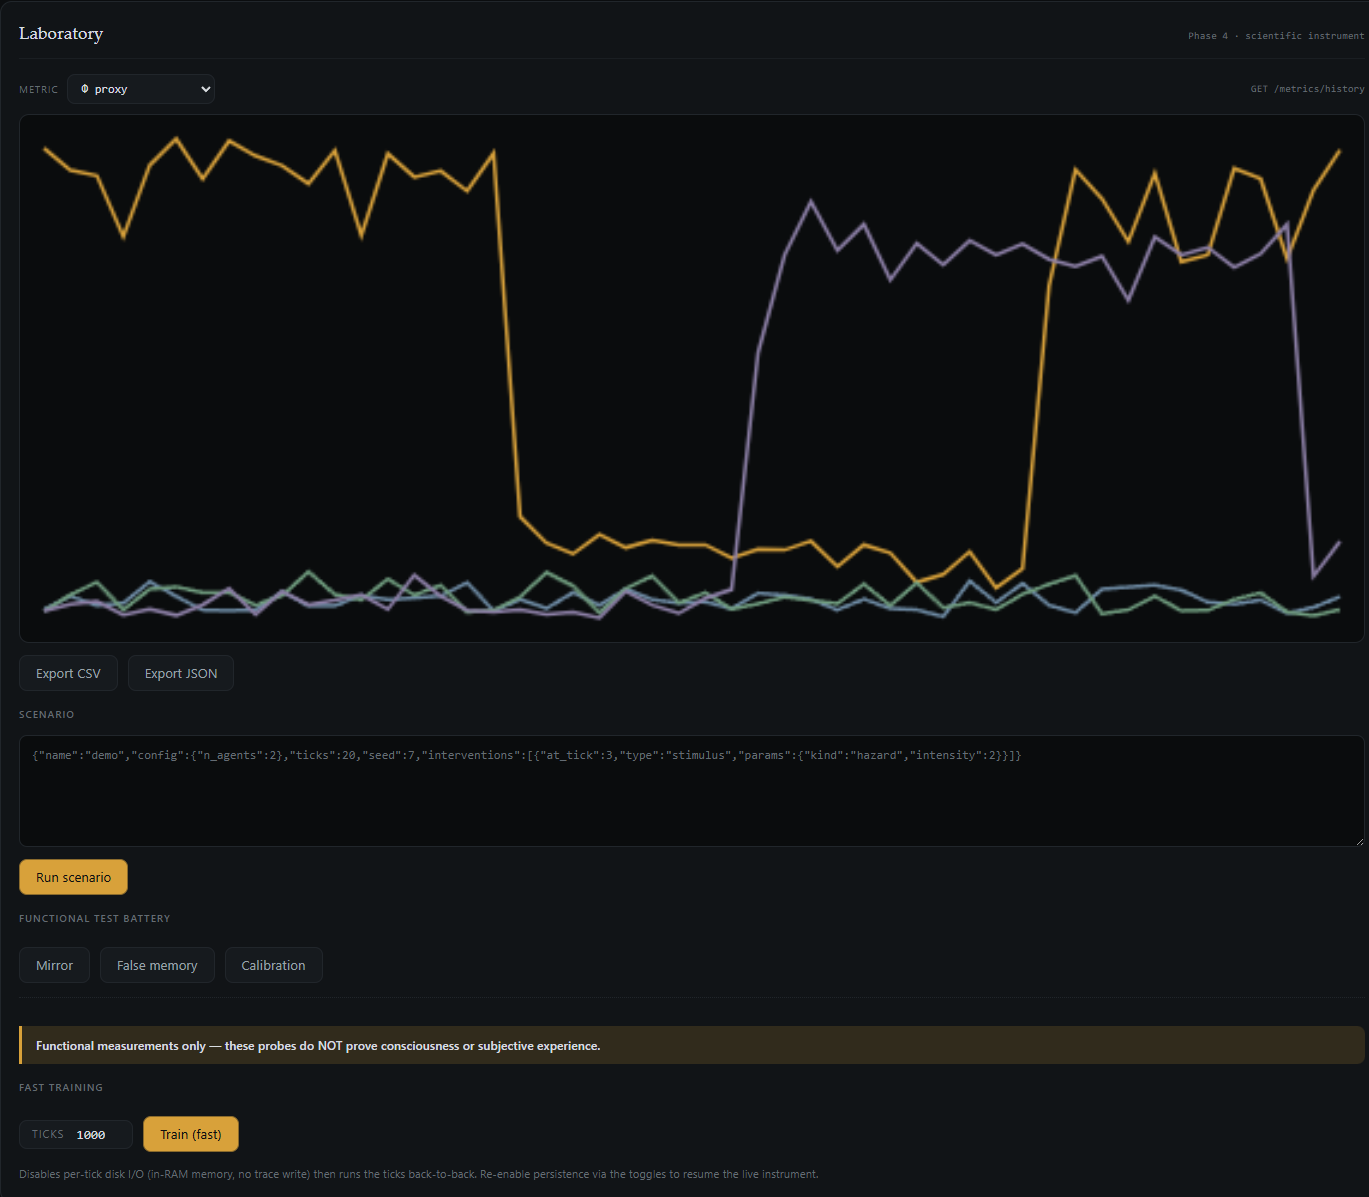
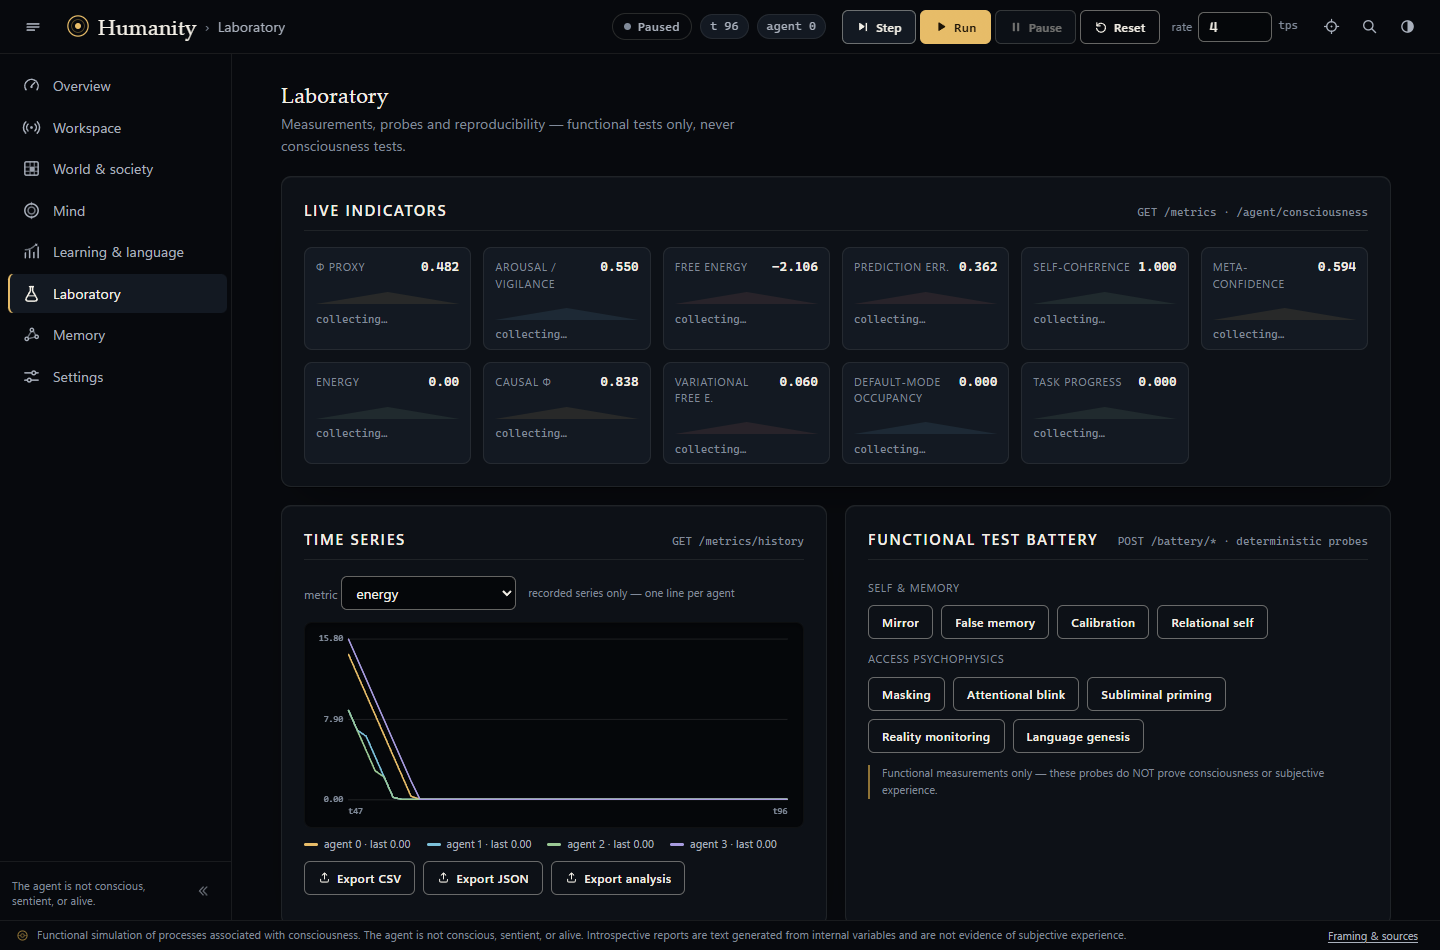
docs: refresh Phase 8 visual observatory

diff --git a/tests/test_gender_ui.py b/tests/test_gender_ui.py
@@ -269,5 +269,15 @@ def test_readme_documents_phase8_without_a_mandatory_identity_pipeline() -> None
     ):
         assert endpoint in readme
 
+    for image_name in (
+        "gender-experience.png",
+        "gender-dynamics.png",
+        "gender-instrument.png",
+    ):
+        assert f"(docs/images/{image_name})" in readme
+        image_path = ROOT / "docs" / "images" / image_name
+        assert image_path.is_file()
+        assert image_path.stat().st_size > 75_000
+
     assert "tests-692%20passing" in readme
     assert "# 692 deterministic tests" in readme

diff --git a/README.md b/README.md
@@ -12,10 +12,11 @@
 
 </div>
 
-![The Humanity instrument — full dashboard](docs/images/dashboard.png)
+![Humanity Overview — global access, live indicators, winning sources, world and society](docs/images/dashboard.png)
 
-<p align="center"><em>The live instrument — conscious moment, global workspace, the multi-agent society,
-learning &amp; personality, and the scientific laboratory, all observable in one dashboard.</em></p>
+<p align="center"><em>The current Overview at tick 96 — global access, live indicators, recent winning
+sources, the grid world and a four-agent society in one view. The focused captures below cover every
+principal instrument route.</em></p>
 
 > **What is this?** A from-scratch, **LLM-free, neural-network-free** cognitive agent whose loop is
 > assembled from the *actual mechanisms* the leading theories of consciousness propose as
@@ -254,15 +255,13 @@ A **central dynamics fix** was applied to the global workspace (GWT), with two r
 The test suite stays green; public signatures are preserved and the new parameters are keyword
 arguments with default values.
 
-![Global workspace — specialist coalitions competing for global access](docs/images/global-workspace.png)
-*The global workspace: each bar is a specialist coalition (perception, memory, motivation, social,
-concept, imagination, metacognition…) bidding for global access. Here the winner's ignition score
-crosses the effective threshold (dashed line) → ignition and broadcast (conscious access).*
+![Workspace observatory — coalition competition, attention schema and higher-order state](docs/images/global-workspace.png)
+*The Workspace route at tick 96: specialist coalitions bid for access while the attention schema,
+higher-order state and ignition stream expose how a conscious-moment record is produced.*
 
-![Conscious moment — the bound global state after ignition](docs/images/conscious-moment.png)
-*The resulting conscious moment: the winning content reaches global access ("conscious"), bound
-together with the dominant affect, awareness level, valence and the integrated-information proxy (Φ).
-When the winner stays below the threshold, the same panel reads "present but subliminal".*
+![Conscious moment — bound state, live indicators and winning sources](docs/images/conscious-moment.png)
+*The Overview binds the winning content to affect, awareness, valence and the integrated-information
+proxy (Φ), then keeps that moment legible beside its recent sources and the live world/society state.*
 
 ### The bug that was fixed
 
@@ -572,9 +571,9 @@ curl -X POST http://127.0.0.1:8000/agent/perturb \
 > **clickable grid**: clicking a cell triggers a world stimulus (`POST /world/stimulus`) at that
 > location. Every interaction stays accompanied by the disclaimer and the theoretical framing.
 
-![The grid world — agent, perception radius, and objects](docs/images/world.png)
-*The grid world: the agent (ringed) with its perception radius, surrounded by food, hazards, tools
-and curios. Clicking a cell injects a real stimulus there.*
+![World observatory — interactive grid, agent, perception radius and objects](docs/images/world.png)
+*The World route at tick 96: the ringed agent and its perception radius share the grid with food,
+hazards, tools and curios; the adjacent interaction console turns clicks and probes into real stimuli.*
 
 ---
 
@@ -586,9 +585,9 @@ changes is that they **perceive**, **communicate with**, **model** and **affecti
 another. The `SocietyManager` (`core/society.py`) owns the shared world and N agents, and runs a
 deterministic **collective tick** (each agent cycles once, in ascending id order).
 
-![The multi-agent society — agents foraging in a shared world](docs/images/society.png)
-*The multi-agent society: several agents (here 0, 1, 2…) sharing one world, each running its own full
-cognitive loop, perceiving and modeling the others.*
+![Society observatory — four agents foraging in a shared world](docs/images/society.png)
+*The responsive Society route at tick 96: four agents share one world while each runs a complete
+cognitive loop, perceives neighbors and maintains its own local models of the others.*
 
 | Social mechanism | Module | What it does (FUNCTIONAL) |
 |---|---|---|
@@ -667,9 +666,10 @@ it**: they wrap around the GWT/AST/HOT/active-inference/Phi-proxy cycle describe
 project, they stay **level 2**: the agents are **neither conscious, sentient, nor alive** — same
 honesty contract.
 
-![Deep consciousness — circadian clock, sleep, agency, curiosity, imagination](docs/images/deep-consciousness.png)
-*Phase 2 deep consciousness: the circadian clock (daylight), sleep state, sense of agency,
-boredom/curiosity, and the imagined plan from bounded mental rollouts.*
+![Mind observatory — self-opacity, rhythms, drives and the functional asymptote](docs/images/deep-consciousness.png)
+*The Mind route joins Phase-2 rhythms and drives to self-opacity and the Phase-5 functional
+asymptote: daylight, sleep, agency, curiosity, imagination and the model's declared limits remain
+visible together.*
 
 | # | Mechanism (per agent) | What it does (FUNCTIONAL) |
 |---|---|---|
@@ -754,9 +754,9 @@ no black box, just readable tables and scalars. Like everything else in the proj
 deterministic and grounded** in real internal variables — and the agents are **neither conscious,
 sentient, nor alive** (same honesty contract).
 
-![Learning & personality — learned action values, concepts, emergent traits](docs/images/learning-personality.png)
-*Phase 3 learning & personality: the learned `Q[action]` values, the dominant emergent concept, the
-self-tuned learning rate, and the divergent personality traits (openness, caution, novelty-seeking).*
+![Learning and language observatory — action values, concepts, traits and invented lexicon](docs/images/learning-personality.png)
+*The Learning & Language route combines Phase-3 action values, concepts, adaptive learning rates and
+divergent traits with the Phase-6 naming game and its inspectable invented lexicon.*
 
 | # | Mechanism (per agent) | What it does (FUNCTIONAL) |
 |---|---|---|
@@ -851,10 +851,9 @@ science** on this implementation. It is a **non-invasive** layer — it *orchest
 the existing agent/society **without modifying the cognitive cycle** — and is therefore deterministic
 at the seed and regression-free (the whole suite stays green).
 
-![The Laboratory — comparative time series, scenarios, test battery, fast training](docs/images/laboratory.png)
-*Phase 4 scientific instrument: divergent multi-agent time series (here the Phi proxy), CSV/JSON
-export, a reproducible-scenario runner, the functional test battery, and the fast-training control —
-each with the honesty disclaimer in plain sight.*
+![Laboratory observatory — live indicators, comparative time series and functional battery](docs/images/laboratory.png)
+*The Laboratory route at tick 96: live indicators, comparative multi-agent time series, reproducible
+scenario controls, exports and the functional battery remain gathered under the honesty disclaimer.*
 
 | Brick | Module | What it does (FUNCTIONAL) |
 |---|---|---|
@@ -1292,6 +1291,11 @@ represent:
 The backend flag `gender_experience_enabled` defaults to `False`, and no profile — including a cis
 profile — is silently assigned at boot. A gender-life scenario must be deliberately selected.
 
+![Phase 8 gender experience observatory — scenario, life course and privacy-separated layers](docs/images/gender-experience.png)
+*One deliberately selected example at tick 10: the scenario console and configurable life timeline
+sit above three visibly separate layers — private experiment input, agent-readable self-understanding
+and observer-safe public presentation. The private layer appears only after an explicit debug reveal.*
+
 ### The model is hybrid, not inferential
 
 The private felt profile and life plan are **configured experiment inputs**. Labels can be present
@@ -1349,6 +1353,11 @@ The engine updates these dimensions without collapsing them into a single “tra
 | **Resilience** | Interpersonal support, community connection, positive representation, pride, self-acceptance and a derived resilience index |
 | **Transition** | Social, administrative, voice, hormonal and surgical dimensions, all optional and independent |
 | **Agency** | An explicit current intent, access/safety constraints, event provenance and a bounded life-event ledger |
+
+![Phase 8 multidimensional dynamics — congruence, affect, minority stress, resilience and expression](docs/images/gender-dynamics.png)
+*The same configured run exposes congruence by domain, dysphoria, euphoria, fulfillment, external and
+internalized transphobia, resilience, expression drivers and abstract embodiment side by side. No
+single score is allowed to stand in for identity.*
 
 Medical dimensions remain abstract: they adjust configured domain coordinates and recovery load.
 There are no protocols, doses, eligibility rules, anatomical imagery or treatment recommendations.
@@ -1503,6 +1512,11 @@ implemented stress, concealment, resilience and disclosure trajectories may dive
 must remain equal and identity-inference invariant violations must remain zero. This demonstrates
 the consequences of **the simulator's declared assumptions**; it is not evidence that the reported
 effect sizes or causal relations hold for real people.
+
+![Phase 8 instrument — independent transitions, event ledger and eight-arm counterfactual battery](docs/images/gender-instrument.png)
+*The lower observatory keeps five independent transition dimensions, validated events and intentions,
+and all eight matched battery arms inspectable in one instrument. Counterfactuals preserve the same
+private profile checksum and never mutate the live run.*
 
 ### Observatory and measured validation
 
